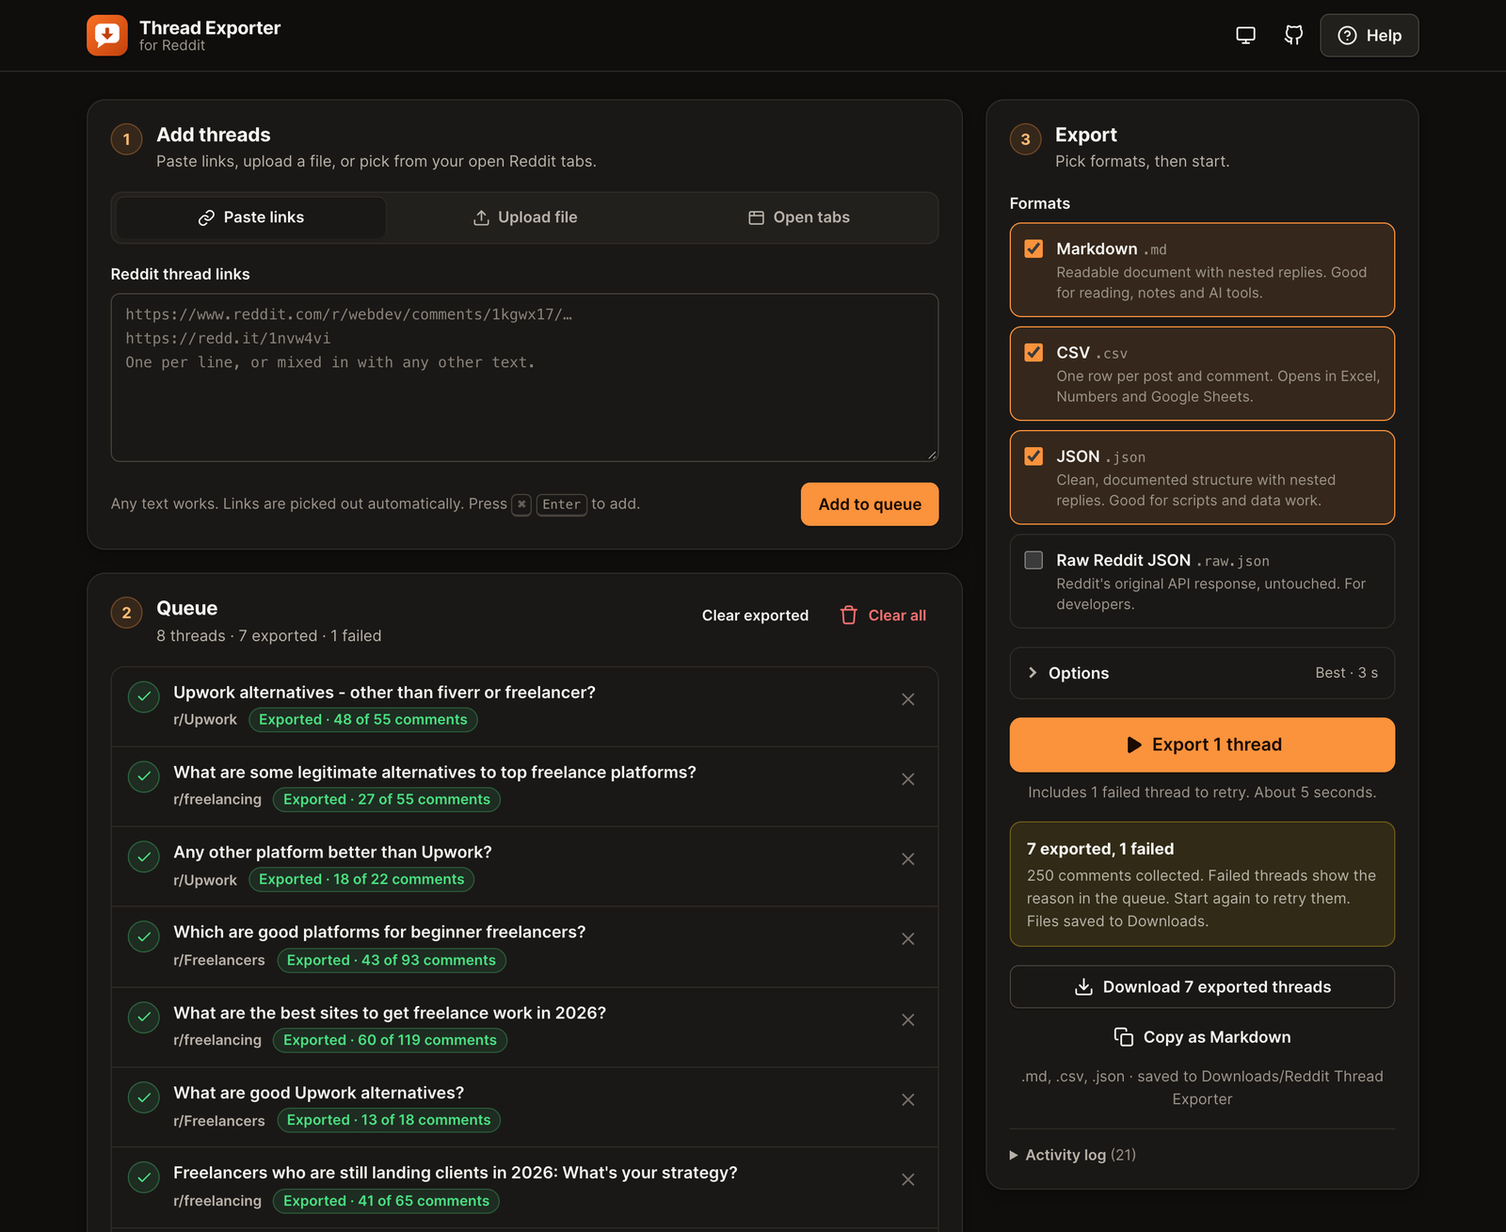
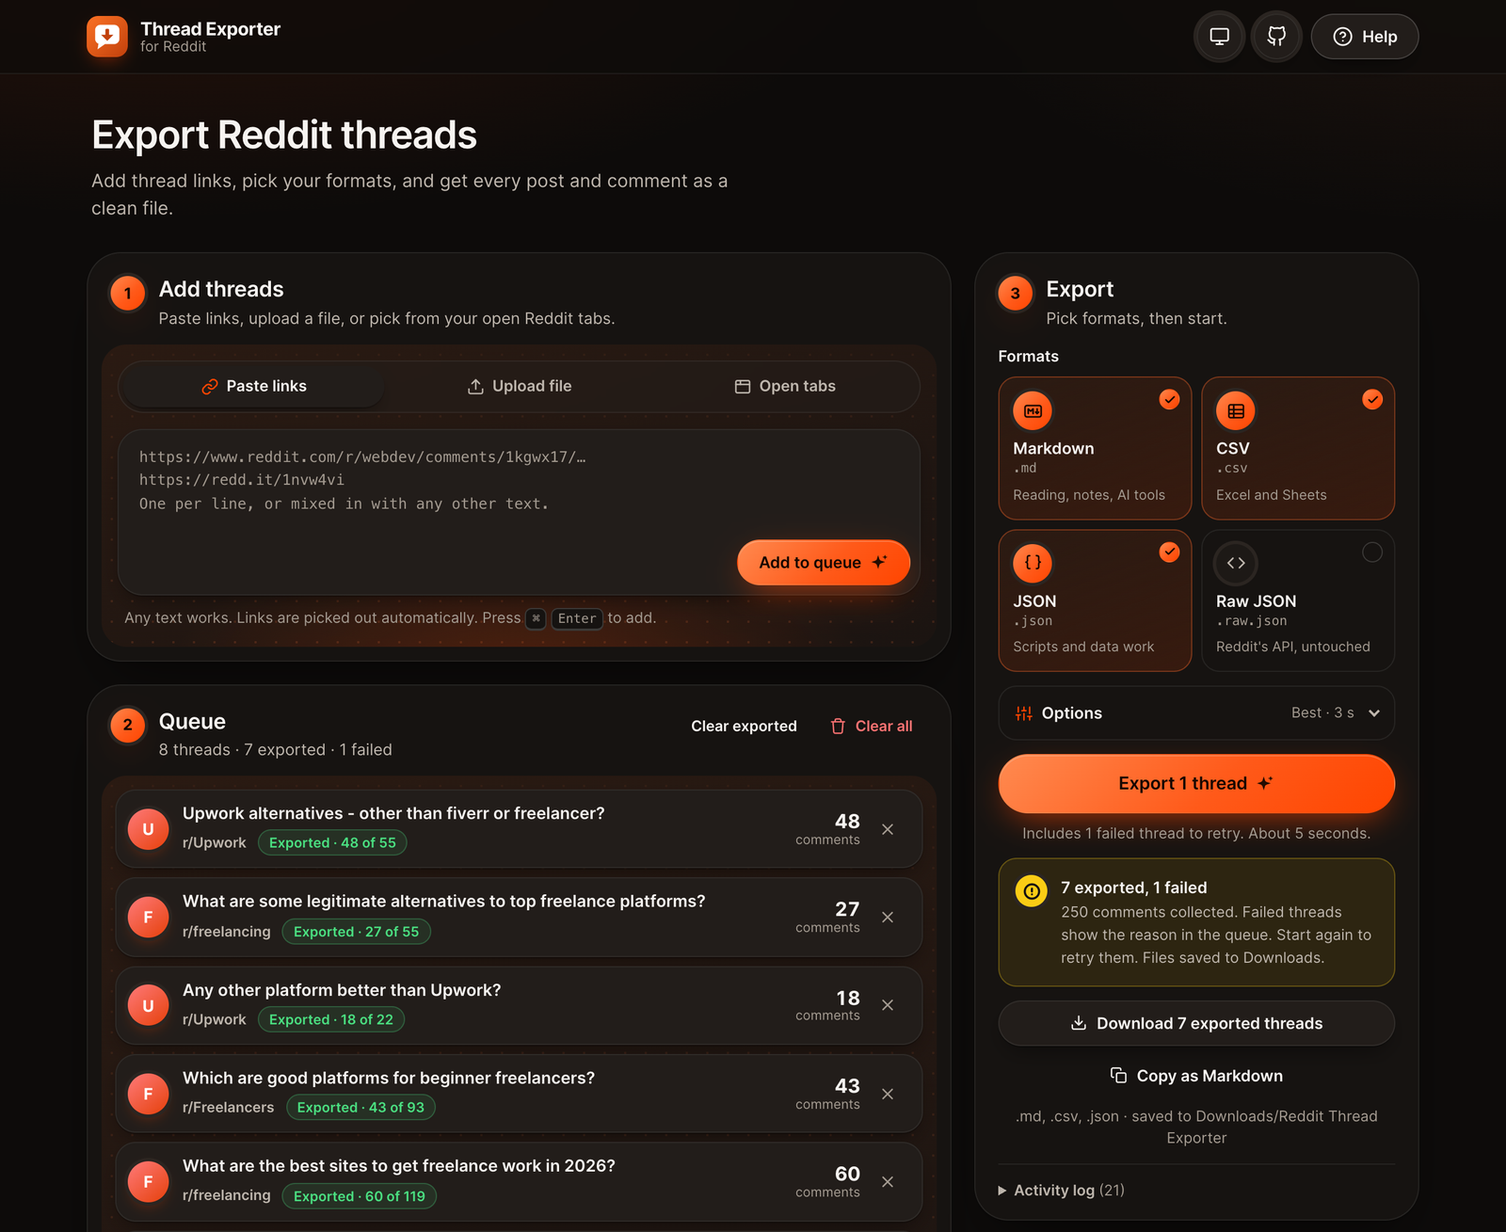
Docs for v1.1.0: security policy, popup, new screenshots
Adds SECURITY.md and Dependabot, and updates the README, architecture, privacy and format docs and the changelog.

diff --git a/README.md b/README.md
@@ -13,7 +13,7 @@ Paste links or drop a CSV, press Export, and the files land in your Downloads fo
 [![No dependencies](https://img.shields.io/badge/runtime%20dependencies-0-15803d)](package.json)
 [![License: MIT](https://img.shields.io/badge/license-MIT-57534e)](LICENSE)
 
-[Install](#install) · [How to use it](#how-to-use-it) · [Formats](#export-formats) · [How it works](#how-it-works) · [Privacy](#privacy-and-permissions) · [Development](#development)
+[Install](#install) · [How to use it](#how-to-use-it) · [Formats](#export-formats) · [How it works](#how-it-works) · [Security](#privacy-security-and-permissions) · [Development](#development)
 
 <img src="docs/images/screenshot-light.png" alt="The exporter page: thread links added on the left, seven threads exported in the queue, and the export panel with Markdown, CSV and JSON selected on the right." width="900" />
 
@@ -27,31 +27,35 @@ Thread Exporter does it from inside your own browser, the same way reddit.com lo
 
 ## Features
 
-- **Add threads any way you like.** Paste links, drop a CSV or text file (links are found in any column), tick open Reddit tabs, or right-click any thread link on Reddit.
+- **Add threads any way you like.** Paste links, drop a CSV or text file (links are found in any column), tick open Reddit tabs, right-click any thread link on Reddit, or add the thread you're reading from the toolbar popup.
+- **Quick settings in the toolbar.** The popup shows your queue and live progress, adds the current thread in one click, and has the most-used settings, with a link to the full overview.
 - **Understands every Reddit link.** Full URLs, `old.` / `new.` / mobile links, comment permalinks, `redd.it` short links, app share links (`/r/…/s/…`) and bare `/r/…/comments/…` paths. Duplicates are skipped and non-thread links are flagged.
 - **Four formats.** Readable Markdown with nested replies, an Excel-ready CSV, a clean JSON tree, and Reddit's raw JSON. Or one click to copy the Markdown.
 - **Polite and resilient.** One request at a time with a pause in between. Waits out rate limits on its own, retries temporary errors, and tells you exactly why a thread failed.
 - **Never loses work.** Pause, resume or stop at any time. Finished threads are saved as they complete and survive a closed tab.
 - **Optional extras.** Load the replies hidden behind "load more replies", choose the comment order, include usernames (off by default).
-- **Private by design.** No server, no analytics, no tracking. It only talks to reddit.com.
+- **Private and locked down.** No server, no analytics, no tracking. It only talks to reddit.com, runs under a strict content security policy, and protects CSV exports against formula injection.
 - **Built-in help**, light and dark themes, keyboard support, and a layout that works in a narrow window.
 
 <table>
   <tr>
-    <td width="50%"><img src="docs/images/screenshot-exporting.png" alt="An export in progress: 3 of 8 threads done, with a notice that Reddit asked for a short break and the export continues in 7 seconds." /></td>
+    <td width="50%"><img src="docs/images/screenshot-popup.png" alt="The toolbar popup in light and dark mode: the current thread with an Add button, queue counts, a paste field, format chips, comment order and pause, and a large Export button." /></td>
+    <td width="50%"><img src="docs/images/screenshot-running.png" alt="An export in progress: a glowing orb with rings and an Exporting label, 2 of 7 threads done, with Pause and Stop buttons." /></td>
+  </tr>
+  <tr>
+    <td align="center"><sub>The toolbar popup: current thread, queue and quick settings</sub></td>
+    <td align="center"><sub>Live progress; rate limits are waited out for you</sub></td>
+  </tr>
+  <tr>
     <td width="50%"><img src="docs/images/screenshot-help.png" alt="The built-in help dialog with a topic list on the left and the quick start steps on the right." /></td>
+    <td width="50%"><img src="docs/images/screenshot-dark.png" alt="The exporter page in dark mode." /></td>
   </tr>
   <tr>
-    <td align="center"><sub>Rate limits are handled for you, with a live countdown</sub></td>
     <td align="center"><sub>Built-in help covers every option and common problems</sub></td>
-  </tr>
-  <tr>
-    <td width="50%"><img src="docs/images/screenshot-dark.png" alt="The same page in dark mode." /></td>
-    <td width="50%" align="center"><img src="docs/images/screenshot-mobile.png" alt="The queue on a narrow screen, in light and dark mode." width="78%" /></td>
-  </tr>
-  <tr>
     <td align="center"><sub>Follows your system's dark mode, or pick a theme</sub></td>
-    <td align="center"><sub>Works in a narrow window or side panel</sub></td>
+  </tr>
+  <tr>
+    <td colspan="2" align="center"><img src="docs/images/screenshot-mobile.png" alt="The queue on a narrow screen, in light and dark mode." width="48%" /><br /><sub>Works in a narrow window or side panel</sub></td>
   </tr>
 </table>
 
@@ -61,7 +65,7 @@ The extension works in Chrome 116 or newer, and in other Chromium browsers (Edge
 
 **From a release (no tools needed)**
 
-1. Download `reddit-thread-exporter-v1.0.0.zip` from the [latest release](https://github.com/AleksKamb/reddit-thread-exporter/releases/latest) and unzip it.
+1. Download `reddit-thread-exporter-v1.1.0.zip` from the [latest release](https://github.com/AleksKamb/reddit-thread-exporter/releases/latest) and unzip it.
 2. Open `chrome://extensions` and turn on **Developer mode** (top right).
 3. Click **Load unpacked** and select the unzipped folder.
 4. Pin the extension from the puzzle-piece menu so the button is always one click away.
@@ -76,10 +80,12 @@ Then follow steps 2–4 above and select the cloned folder. No build step is nee
 
 ## How to use it
 
-1. **Open the exporter** by clicking the toolbar button. On first install it opens by itself.
+1. **Open the exporter.** Click the toolbar button for the quick popup, then **Open overview** for the full page. On first install the page opens by itself.
 2. **Add threads.** Paste links into the box and press **Add to queue** (or <kbd>⌘</kbd>/<kbd>Ctrl</kbd> + <kbd>Enter</kbd>). You can also upload a file, pick from your open tabs, or right-click a thread link on Reddit and choose **Add thread to Thread Exporter**.
 3. **Pick formats** in the Export panel. Markdown and JSON are on by default.
 4. **Press Export.** Threads are fetched one by one. When the queue is done, the files are saved to `Downloads/Reddit Thread Exporter/`.
+
+**From the toolbar popup** you can do the quick things without opening the page: add the thread you're reading, paste a link, change formats and options, and press **Export**. The export then runs in the overview page, and the popup shows its progress.
 
 If you're not logged in to Reddit, or Reddit wants to check your browser, open reddit.com once in a normal tab first. The help page (**Help** in the top bar, or <kbd>?</kbd>) covers every option and the common problems.
 
@@ -138,13 +144,22 @@ flowchart LR
 
 The parts that don't need Chrome (link parsing, the runner, the thread model and the formatters) are plain functions with unit tests. The details, including the design decisions, are in [docs/ARCHITECTURE.md](docs/ARCHITECTURE.md).
 
-## Privacy and permissions
+## Privacy, security and permissions
 
 Everything happens in your browser. There is no server, and the extension sends nothing anywhere except the requests to reddit.com for the threads you added. Usernames are left out of exports unless you turn them on. Full details: [PRIVACY.md](PRIVACY.md).
 
+Reddit content and uploaded files are treated as untrusted input:
+
+- Text from Reddit is only ever displayed as text, never as HTML (enforced by ESLint).
+- Extension pages run under a strict content security policy and can't be loaded or messaged by websites.
+- CSV exports are protected against formula injection, and exported links can only point to reddit.com threads or ordinary web pages.
+- Look-alike domains are rejected, uploads are size-limited, and link scanning can't be slowed down by crafted files.
+
+The threat model and how to report a vulnerability are in [SECURITY.md](SECURITY.md).
+
 | Permission | Why it's needed |
 | --- | --- |
-| Read and change data on reddit.com | Runs the thread request inside a reddit.com tab |
+| Read and change data on www., old. and new.reddit.com | Runs the thread request inside a reddit.com tab, and lets the popup offer the thread you're viewing |
 | `scripting` | Injects that one request function into the tab |
 | `storage`, `unlimitedStorage` | Keeps your queue, settings and exported threads on your computer |
 | `downloads` | Saves the files to your Downloads folder |
@@ -179,21 +194,24 @@ reddit-thread-exporter/
 ├── _locales/en/             Extension name and description
 ├── icons/                   Toolbar and store icons (drawn by scripts/make-icons.py)
 ├── src/
-│   ├── background.js        Toolbar button, right-click menu, badge
+│   ├── background.js        Right-click menu, badge, first-run page
 │   ├── app/                 The exporter page: index.html, app.css, app.js
+│   ├── popup/               The toolbar popup with quick settings
+│   ├── shared/              Theme tokens and components, icon sprite, DOM helpers
 │   └── lib/
 │       ├── reddit-links.js  Recognises and extracts Reddit links
 │       ├── export-runner.js Queue processing, pacing, retries, pause/stop
 │       ├── thread-model.js  Normalizes Reddit's JSON into a comment tree
 │       ├── formatters.js    Markdown, CSV and JSON output
 │       ├── reddit-tab.js    Runs requests inside a reddit.com tab
-│       └── store.js         chrome.storage: queue, settings, saved threads
+│       ├── app-tab.js       Opens/focuses the exporter and passes it commands
+│       └── store.js         chrome.storage: queue, settings, saved threads, progress
 ├── test/                    Unit tests with made-up Reddit fixtures
 ├── scripts/                 Manifest check, packaging, icon generator
 └── docs/                    Architecture, output formats, images
 ```
 
-Contributions are welcome: see [CONTRIBUTING.md](CONTRIBUTING.md).
+Contributions are welcome: see [CONTRIBUTING.md](CONTRIBUTING.md). Security issues: [SECURITY.md](SECURITY.md).
 
 ## Roadmap
 

diff --git a/docs/ARCHITECTURE.md b/docs/ARCHITECTURE.md
@@ -8,6 +8,7 @@ Thread Exporter is a Manifest V3 Chrome extension written in plain JavaScript mo
 flowchart LR
   subgraph Extension
     BG["background.js<br/>service worker"]
+    POP["popup/<br/>toolbar popup"]
     APP["app/index.html + app.js<br/>exporter page"]
     subgraph lib["src/lib (no Chrome APIs except where noted)"]
       LINKS["reddit-links.js<br/>parse & extract links"]
@@ -22,6 +23,9 @@ flowchart LR
   DL[("Downloads folder")]
 
   BG -- "right-click adds" --> STORE
+  POP -- "add · settings" --> STORE
+  POP -- "open / start (app-tab.js)" --> APP
+  APP -- "runStatus" --> POP
   APP --> LINKS --> STORE
   APP --> RUNNER -- "request(path)" --> TAB -- "executeScript: fetch()" --> REDDIT
   RUNNER -- "item-done events" --> APP --> STORE
@@ -30,8 +34,11 @@ flowchart LR
 
 | File | Responsibility | Uses Chrome APIs |
 | --- | --- | --- |
-| `src/background.js` | Toolbar button, right-click menu, badge count, opens the app on install | yes |
+| `src/background.js` | Right-click menu, badge count, opens the exporter on install | yes |
+| `src/popup/popup.js` | Toolbar popup: add the current thread, quick add, queue counts and progress, quick settings | yes |
 | `src/app/app.js` | The exporter page: renders state, handles input, runs exports, saves files | yes |
+| `src/lib/app-tab.js` | Opens or focuses the single exporter tab and passes it a command (start, help) | yes |
+| `src/shared/theme.css`, `icons.svg`, `ui.js` | Design tokens and components, the icon sprite, and small DOM helpers shared by the page and the popup | DOM only |
 | `src/lib/reddit-links.js` | Recognises every Reddit link format and finds links in any text | no |
 | `src/lib/export-runner.js` | Works through the queue with pacing, rate-limit handling, retries, pause and stop | no |
 | `src/lib/thread-model.js` | Turns Reddit's nested `Listing` JSON into a small documented tree | no |
@@ -83,9 +90,11 @@ sequenceDiagram
 
 **Finished work is never lost.** Each thread is saved to `chrome.storage.local` the moment it finishes. Closing the tab, stopping, or a crash keeps everything already exported; items left in `running` go back to `queued` on the next start. Queue writes go through a promise chain so quick successive updates can't overwrite each other.
 
+**The popup delegates, the page works.** A Chrome popup closes the moment it loses focus, so it can't run an export. It edits the same settings and queue in storage, and its Export button opens (or focuses) the exporter page and tells it to start, either with a runtime message (tab already open, sender ID checked) or a `?start=1` parameter (new tab). The page publishes its progress to `chrome.storage.session`, which the popup reads to show a live progress bar.
+
 **Raw data is stored, formats are built on demand.** Storage keeps Reddit's original response. The Markdown, CSV and JSON files are generated at download time, so changing a format option (for example, including usernames) applies to threads exported earlier too.
 
-**Untrusted text stays text.** Titles and comments are only ever written with `textContent`. The extension page uses Chrome's default extension CSP, which blocks inline and remote scripts.
+**Untrusted text stays text.** Titles and comments are only ever written with `textContent`, and ESLint rejects `innerHTML`-style APIs. Extension pages run under a strict CSP (`script-src 'self'; object-src 'none'; base-uri 'none'; frame-ancestors 'none'`). CSV cells are protected against formula injection and exported links are limited to reddit.com permalinks and http(s) URLs. The full threat model is in [SECURITY.md](../SECURITY.md).
 
 ## Storage layout
 
@@ -96,6 +105,12 @@ sequenceDiagram
 | `queue` | `QueueItem[]`: `{ key, ref, title, subreddit, status, error, comments, addedAt, fetchedAt }` |
 | `settings` | `{ formats, sort, delaySeconds, expandMore, includeUsernames, autoDownload, fileName, theme, welcomeDismissed }` |
 | `thread:<key>` | `{ listing, extraThings }`: Reddit's thread response plus comments loaded from "load more replies" |
+
+`chrome.storage.session` (cleared when the browser restarts):
+
+| Key | Value |
+| --- | --- |
+| `runStatus` | `{ state, finished, total, current }`: progress of the running export, shown in the popup |
 
 ## Reddit endpoints used
 

diff --git a/SECURITY.md b/SECURITY.md
@@ -1,0 +1,31 @@
+# Security
+
+## Reporting a vulnerability
+
+Please **don't open a public issue** for security problems. Use GitHub's private
+[security advisory form](https://github.com/AleksKamb/reddit-thread-exporter/security/advisories/new)
+instead. You'll get an answer within a week, and a fix as soon as one is ready.
+
+## How the extension is protected
+
+The extension handles two kinds of untrusted input: content from Reddit (titles, comments,
+links) and files you upload. It's built so neither can run code or reach anything else.
+
+| Risk | Protection |
+| --- | --- |
+| Script injection from Reddit content | Reddit text is only ever written with `textContent`. ESLint forbids `innerHTML`, `outerHTML`, `insertAdjacentHTML`, `document.write` and `eval` in the codebase. |
+| Remote or inline scripts | A strict content security policy on all extension pages: `script-src 'self'; object-src 'none'; base-uri 'none'; frame-ancestors 'none'`. There are no remote scripts, fonts or styles, and no runtime dependencies. |
+| Other websites or extensions talking to it | No `externally_connectable` and no `web_accessible_resources`, so web pages can't load extension pages or send them messages. Internal messages are checked against the extension's own ID. |
+| Formulas in CSV exports ("CSV injection") | Text cells that start with `=`, `+`, `-`, `@`, tab or carriage return get a leading `'`, so Excel and Sheets show them as text. |
+| Links to other sites in exports | Permalinks must be plain reddit.com paths, and link posts are only kept when they're `http`/`https` URLs, so `javascript:` or protocol-relative links never reach an export. |
+| Look-alike domains | Only `reddit.com`, its subdomains and `redd.it` are accepted. `reddit.com.evil.example` and similar are rejected (covered by tests). |
+| Slow or hostile files | Uploads are capped at 5 MB, and the link scanner uses bounded patterns, so a crafted file can't freeze the page. |
+| Flooding Reddit | One request at a time, a minimum pause enforced in code even if stored settings are tampered with, and Reddit's rate-limit headers are respected. |
+| Over-broad access | Host access is limited to `www.`, `old.` and `new.reddit.com`. The extension never reads cookies, history or other sites. |
+
+`npm run check` verifies the manifest keeps these settings, and `test/security.test.js` covers the
+input handling.
+
+## Supported versions
+
+Only the latest release gets fixes.

diff --git a/CONTRIBUTING.md b/CONTRIBUTING.md
@@ -21,14 +21,15 @@ Load it in Chrome:
 
 1. Open `chrome://extensions` and turn on **Developer mode** (top right).
 2. Click **Load unpacked** and pick the repository folder.
-3. After changing code, click the reload icon on the extension's card, then reload the exporter tab.
+3. After changing code, click the reload icon on the extension's card, then reload the exporter tab. To inspect the popup, right-click the toolbar button and choose **Inspect popup**.
 
 The service worker's console is under **Inspect views: service worker** on the same card.
 
 ## Guidelines
 
-- **Keep logic testable.** Anything that doesn't need Chrome APIs belongs in `src/lib/` as a pure function, with tests in `test/`. Chrome-specific code stays thin (`reddit-tab.js`, `store.js`, `background.js`, `app.js`).
-- **Never put Reddit content into HTML.** Use `textContent`. Titles and comments are untrusted input.
+- **Keep logic testable.** Anything that doesn't need Chrome APIs belongs in `src/lib/` as a pure function, with tests in `test/`. Chrome-specific code stays thin (`reddit-tab.js`, `store.js`, `app-tab.js`, `background.js`, `app.js`, `popup.js`).
+- **Share the design.** Colours, buttons, inputs, pills and orbs live in `src/shared/theme.css`, icons in `src/shared/icons.svg`. Use the tokens instead of hard-coded colours.
+- **Never put Reddit content into HTML.** Use `textContent` and DOM methods. Titles and comments are untrusted input, and ESLint rejects `innerHTML` and friends. See [SECURITY.md](SECURITY.md).
 - **Be gentle with Reddit.** Don't lower the minimum delay or add parallel requests.
 - **Match the style.** Small functions with descriptive names, JSDoc on exported functions, comments that explain _why_. Run `npm run lint` before you push.
 - **Update the docs** (`README.md`, the in-app help in `src/app/index.html`, and `CHANGELOG.md`) when behaviour changes.

diff --git a/CHANGELOG.md b/CHANGELOG.md
@@ -4,6 +4,28 @@ All notable changes to this project are listed here. The format follows
 [Keep a Changelog](https://keepachangelog.com/en/1.1.0/), and versions follow
 [Semantic Versioning](https://semver.org/).
 
+## [1.1.0] - 2026-10-17
+
+### Added
+
+- **Toolbar popup** with quick settings: add the thread in the current tab, paste links, see queue counts and live export progress, change formats, comment order, pause, hidden replies and usernames, then export or open the overview.
+- Commands from the popup reach an open exporter tab directly (start the export, open the help).
+- `SECURITY.md` with the threat model and how to report a vulnerability, and Dependabot for dependency updates.
+
+### Changed
+
+- New look: airy cards, soft tinted panels, floating pills, a glowing progress orb and gradient buttons in Reddit orange. Shared theme and icon sprite for the page and the popup.
+- Queue rows show a subreddit avatar and the comment count; formats are picked from icon tiles.
+- Host access narrowed to `www.`, `old.` and `new.reddit.com`.
+
+### Security
+
+- CSV exports neutralise cells that spreadsheets would run as formulas.
+- Links in exports are restricted to reddit.com permalinks and `http`/`https` link posts.
+- Strict content security policy for extension pages; ESLint now forbids `innerHTML`, `eval` and similar.
+- Bounded link-scanning patterns so huge or hostile files can't freeze the page.
+- A minimum pause between requests is enforced regardless of stored settings.
+
 ## [1.0.0] - 2026-10-17
 
 First public release.

diff --git a/docs/OUTPUT-FORMATS.md b/docs/OUTPUT-FORMATS.md
@@ -11,7 +11,7 @@ Meant for reading, note apps (Obsidian, Notion) and AI tools. Replies are nested
 ```markdown
 # Reddit threads
 
-Exported 2026-10-17 with Thread Exporter for Reddit 1.0.0 · 2 threads · 75 comments
+Exported 2026-10-17 with Thread Exporter for Reddit 1.1.0 · 2 threads · 75 comments
 
 ## Contents
 
@@ -40,6 +40,8 @@ The post's text…
 
 One row for each post and each comment, in the order they appear on Reddit. UTF-8 with a byte-order mark and CRLF line endings, so Excel opens it correctly.
 
+Text cells that start with `=`, `+`, `-`, `@`, a tab or a carriage return get a leading `'`, so spreadsheet apps show them as text instead of running them as formulas. Numbers, including negative scores, are left as they are.
+
 | Column | Description |
 | --- | --- |
 | `type` | `post` or `comment` |
@@ -63,7 +65,7 @@ A clean structure that mirrors the Markdown: threads with nested `replies`.
 ```jsonc
 {
   "exportedAt": "2026-10-17T11:10:25.157Z",
-  "exportedWith": "Thread Exporter for Reddit 1.0.0",
+  "exportedWith": "Thread Exporter for Reddit 1.1.0",
   "threadCount": 1,
   "threads": [
     {

diff --git a/PRIVACY.md b/PRIVACY.md
@@ -1,6 +1,6 @@
 # Privacy policy
 
-_Last updated: 17 October 2026_
+_Last updated: 17 October 2026 (v1.1.0)_
 
 Thread Exporter for Reddit is a browser extension that exports Reddit threads you choose into files on your computer. It is built to collect as little as possible, and it collects nothing about you.
 
@@ -35,7 +35,7 @@ Exports leave usernames out by default. If you turn on **Include usernames**, au
 
 | Permission | Used for |
 | --- | --- |
-| Access to `reddit.com` | Fetching the threads you added, from a reddit.com tab |
+| Access to `www.`, `old.` and `new.reddit.com` | Fetching the threads you added from a reddit.com tab, and offering the thread you're viewing in the popup |
 | `scripting` | Running that fetch inside the reddit.com tab |
 | `storage`, `unlimitedStorage` | Keeping the queue, settings and downloaded threads on your computer |
 | `downloads` | Saving the exported files to `Downloads/Reddit Thread Exporter/` |
